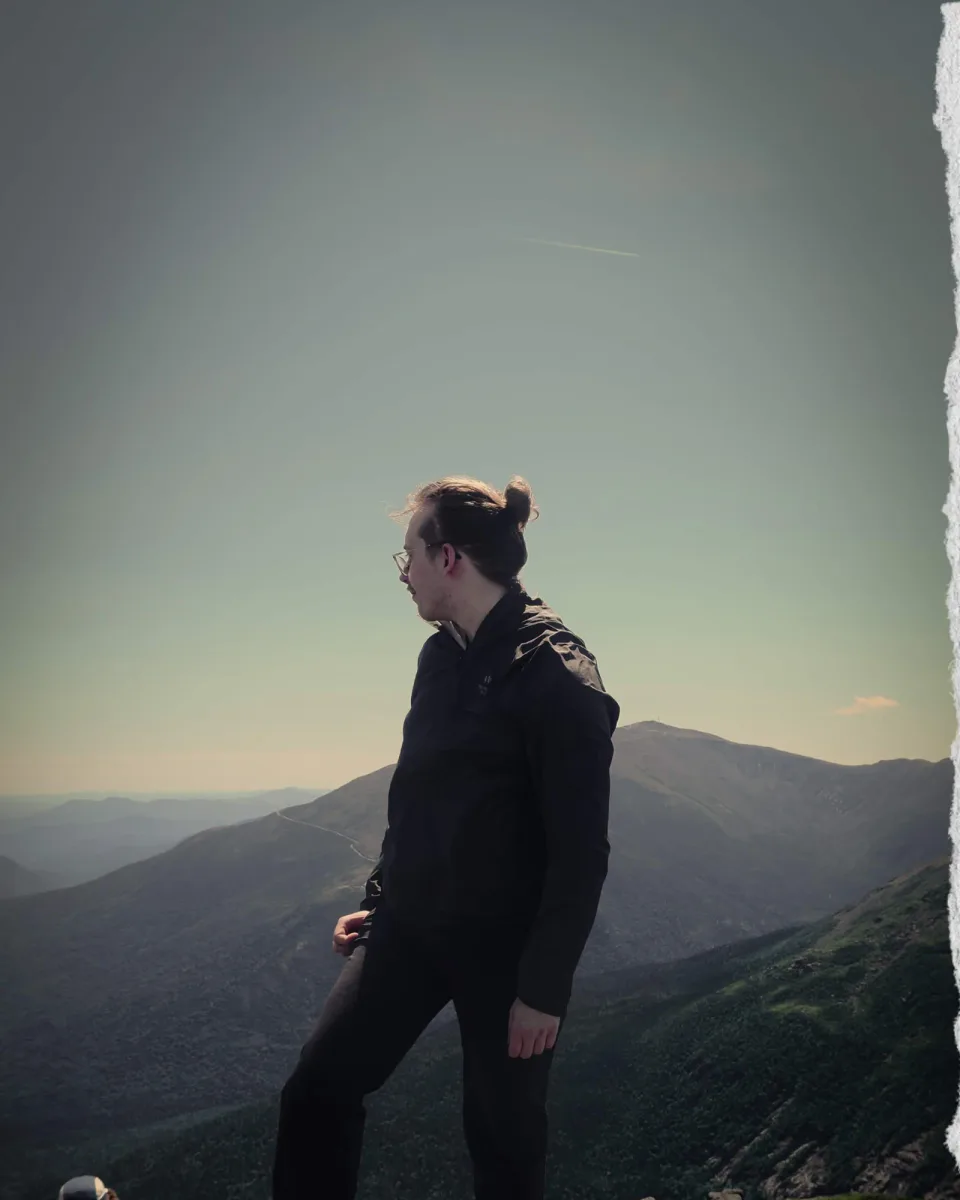
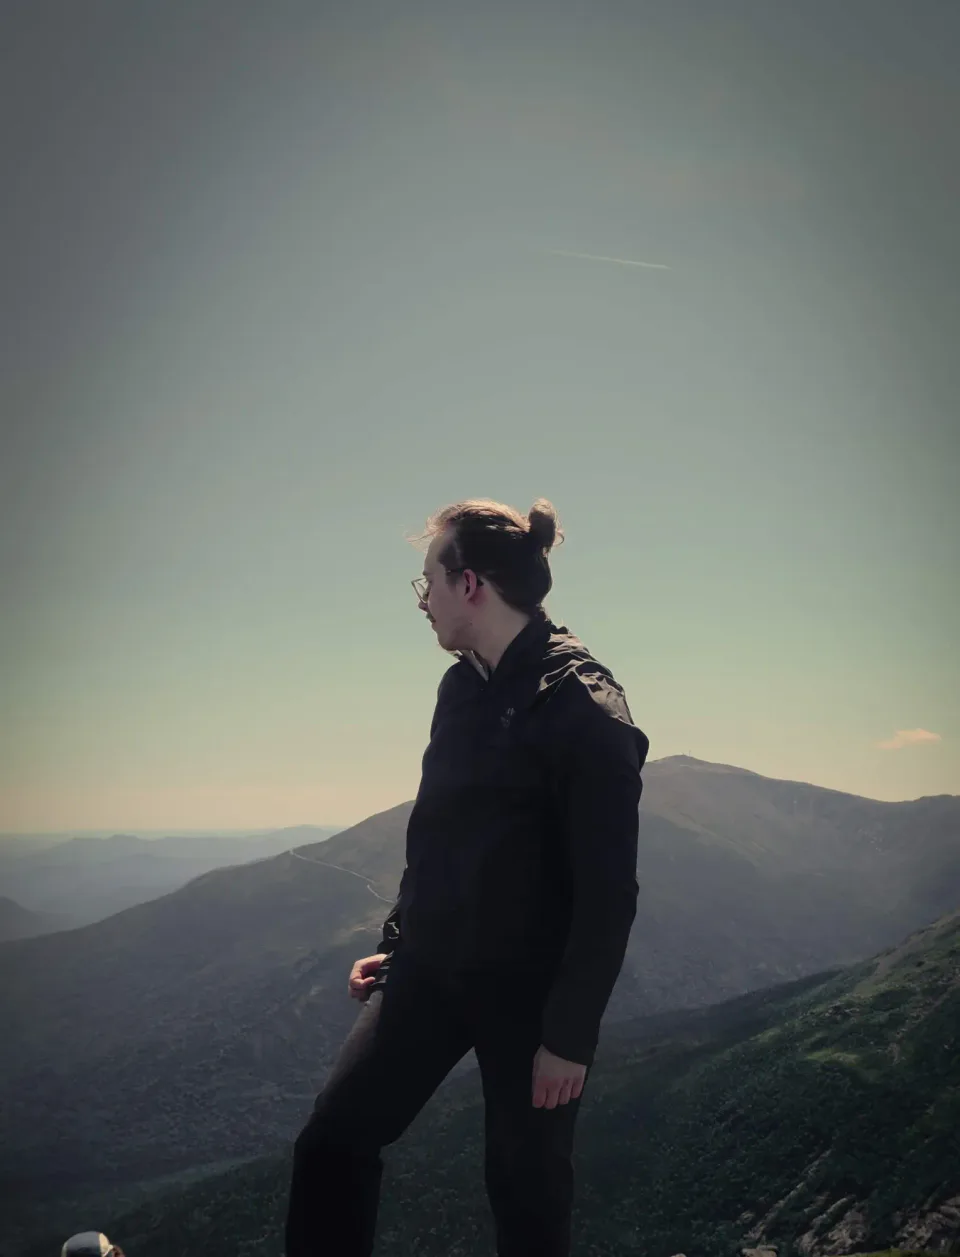
Reveal without IntersectionObserver, and fix anchor scrolling
Sections start at opacity 0, so a callback that never fires leaves the
page blank. A plain rect check on scroll always agrees with what is on
screen. Also moves overflow-x off body, where it propagates to the
viewport and breaks smooth scrolling, and crops the torn edge off the
portrait.

diff --git a/src/components/Reveal.tsx b/src/components/Reveal.tsx
@@ -3,30 +3,51 @@
 import { usePathname } from "next/navigation";
 import { useEffect } from "react";
 
-/** Fades `.reveal` elements in as they enter the viewport. */
+/**
+ * Fades `.reveal` elements in as they enter the viewport.
+ *
+ * Deliberately a plain scroll/resize check rather than an IntersectionObserver:
+ * these elements start at opacity 0, so anything that keeps the callback from
+ * firing (a backgrounded renderer, an embedded webview, an odd screenshot
+ * pipeline) would leave the page blank. A rect check on a handful of elements
+ * runs once per frame at most and always agrees with what is on screen.
+ */
 export function Reveal() {
   const pathname = usePathname();
 
   useEffect(() => {
-    const items = document.querySelectorAll<HTMLElement>(".reveal:not(.is-in)");
-    if (!("IntersectionObserver" in window)) {
-      items.forEach((el) => el.classList.add("is-in"));
-      return;
-    }
-    const io = new IntersectionObserver(
-      (entries) => {
-        for (const entry of entries) {
-          if (entry.isIntersecting) {
-            entry.target.classList.add("is-in");
-            io.unobserve(entry.target);
-          }
+    const pending = new Set(document.querySelectorAll<HTMLElement>(".reveal:not(.is-in)"));
+    if (pending.size === 0) return;
+
+    const check = () => {
+      const limit = window.innerHeight * 0.94;
+      for (const el of pending) {
+        const { top, bottom } = el.getBoundingClientRect();
+        if (top < limit && bottom > 0) {
+          el.classList.add("is-in");
+          pending.delete(el);
         }
-      },
-      // threshold 0: elements taller than the viewport must also fade in
-      { rootMargin: "0px 0px -6% 0px", threshold: 0 },
-    );
-    items.forEach((el) => io.observe(el));
-    return () => io.disconnect();
+      }
+      if (pending.size === 0) stop();
+    };
+    const stop = () => {
+      window.removeEventListener("scroll", check);
+      window.removeEventListener("resize", check);
+    };
+
+    // Called straight from the scroll handler rather than through
+    // requestAnimationFrame, which some embedded renderers never run.
+    window.addEventListener("scroll", check, { passive: true });
+    window.addEventListener("resize", check);
+    check();
+    // Late layout shifts (fonts, images) can move things into view without a scroll.
+    const settle = window.setTimeout(check, 600);
+
+    return () => {
+      stop();
+      window.clearTimeout(settle);
+      pending.clear();
+    };
   }, [pathname]);
 
   return null;

diff --git a/src/app/globals.css b/src/app/globals.css
@@ -71,6 +71,9 @@ html {
   -webkit-text-size-adjust: 100%;
   scroll-behavior: smooth;
   scroll-padding-top: var(--header-h);
+  /* Keep this on html, not body: on body it propagates to the viewport and
+     kills smooth scrolling, which silently breaks every anchor link. */
+  overflow-x: hidden;
 }
 
 @media (prefers-reduced-motion: reduce) {
@@ -89,7 +92,6 @@ body {
   font-weight: 400;
   -webkit-font-smoothing: antialiased;
   text-rendering: optimizeLegibility;
-  overflow-x: hidden;
   transition: background-color 0.5s var(--ease), color 0.5s var(--ease);
 }
 
